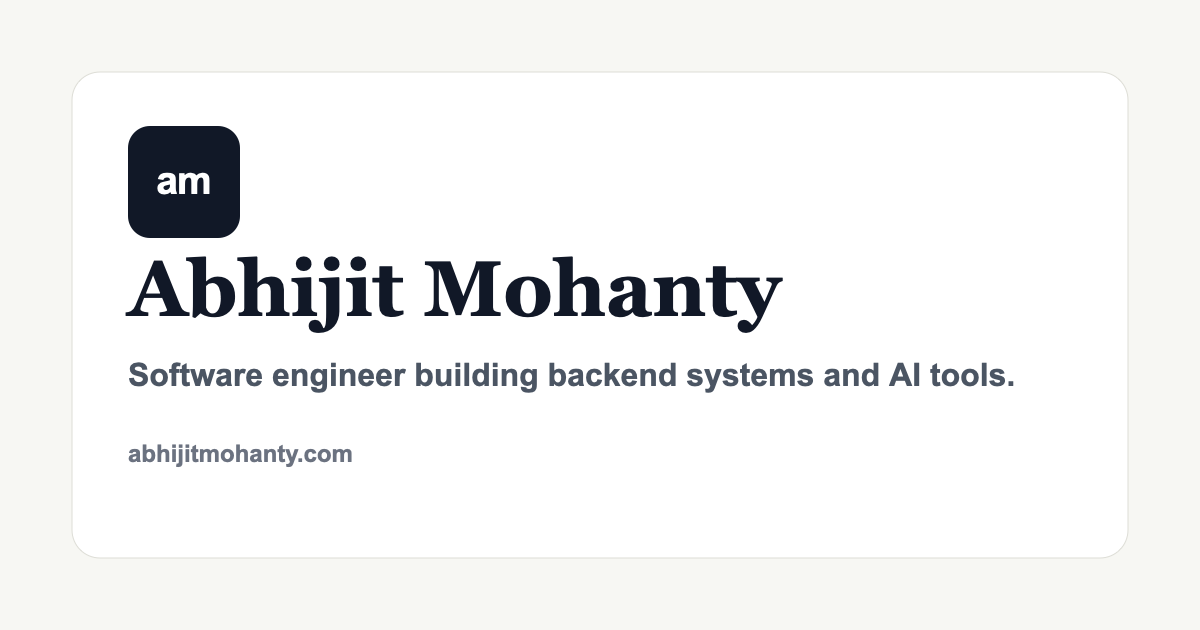
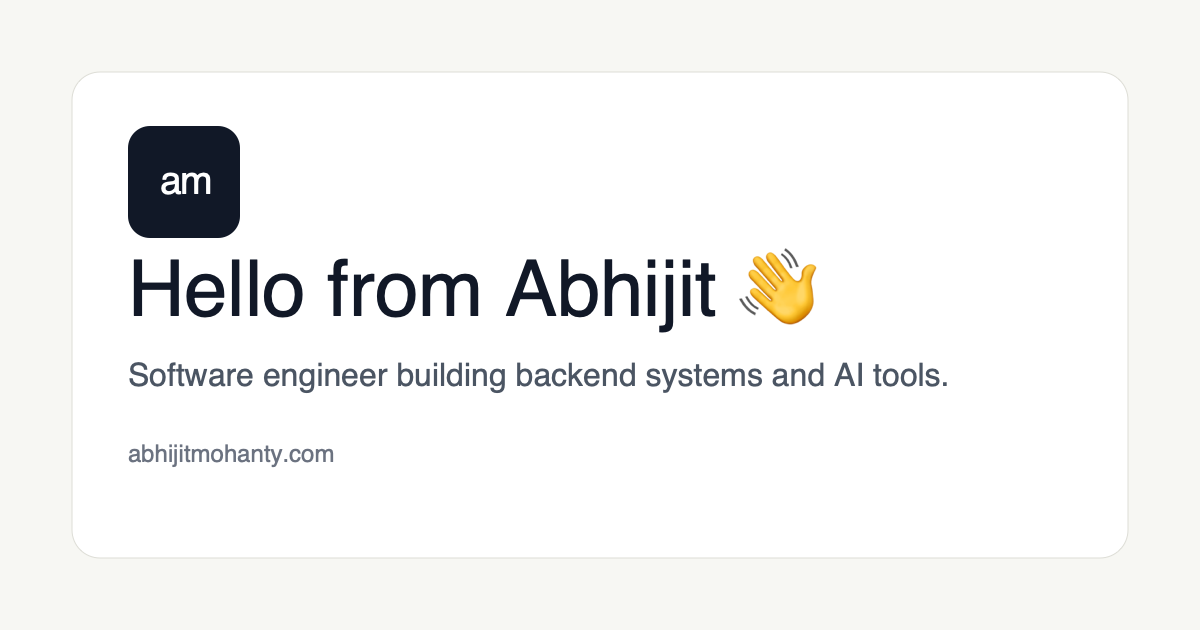
Update site preview greeting

diff --git a/content/_index.md b/content/_index.md
@@ -1,5 +1,5 @@
 +++
-title = "Home"
+title = "Hello from Abhijit 👋"
 draft = false
 +++
 
